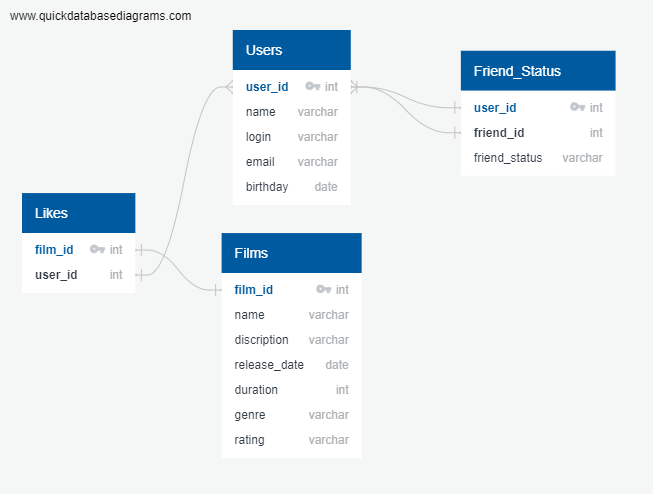
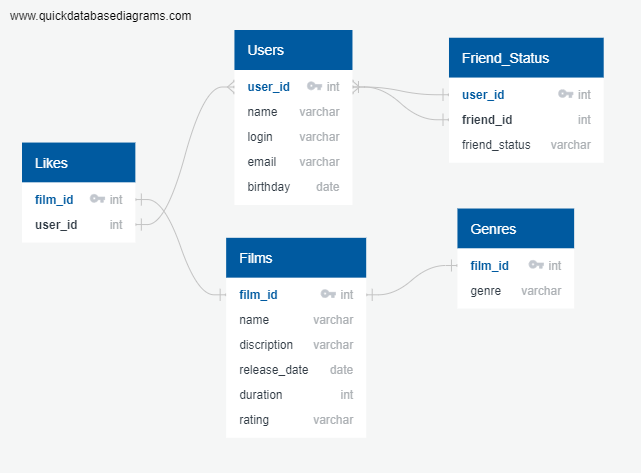
add multigenre, fix db-schema

diff --git a/src/test/java/ru/yandex/practicum/filmorate/validationTests/FilmValidationTest.java b/src/test/java/ru/yandex/practicum/filmorate/validationTests/FilmValidationTest.java
@@ -7,10 +7,13 @@ import ru.yandex.practicum.filmorate.model.Film;
 
 import javax.validation.*;
 import java.time.LocalDate;
+import java.util.List;
 import java.util.Set;
 
 import static org.junit.jupiter.api.Assertions.assertEquals;
 import static org.junit.jupiter.api.Assertions.assertThrows;
+import static ru.yandex.practicum.filmorate.model.utils.Genre.COMEDY;
+import static ru.yandex.practicum.filmorate.model.utils.Rating.PG13;
 
 public class FilmValidationTest {
 
@@ -24,6 +27,8 @@ public class FilmValidationTest {
                 .description("Description")
                 .releaseDate(LocalDate.of(1985,12,1))
                 .duration(90)
+                .rating(PG13.getRating())
+                .genres(List.of(COMEDY.getGenre()))
                 .build();
         Throwable thrown = assertThrows(ConstraintViolationException.class, () -> validate(film));
         String errorMessage = thrown.getMessage().split(":")[1].trim();
@@ -90,8 +95,10 @@ public class FilmValidationTest {
     }
 
     public void validate(Film film) {
-        ValidatorFactory factory = Validation.buildDefaultValidatorFactory();
-        Validator validator = factory.getValidator();
+        Validator validator;
+        try (ValidatorFactory factory = Validation.buildDefaultValidatorFactory()) {
+            validator = factory.getValidator();
+        }
         Set<ConstraintViolation<Film>> violations = validator.validate(film);
         if (!violations.isEmpty()) {
             throw new ConstraintViolationException(violations);

diff --git a/src/test/java/ru/yandex/practicum/filmorate/ServiceTests/FilmServiceTest.java b/src/test/java/ru/yandex/practicum/filmorate/ServiceTests/FilmServiceTest.java
@@ -8,13 +8,12 @@ import ru.yandex.practicum.filmorate.service.film.FilmService;
 import ru.yandex.practicum.filmorate.storage.film.InMemoryFilmStorage;
 
 import java.time.LocalDate;
-import java.util.Comparator;
-import java.util.List;
-import java.util.Random;
+import java.util.*;
 import java.util.stream.Collectors;
 
 import static org.junit.jupiter.api.Assertions.*;
 import static ru.yandex.practicum.filmorate.model.utils.Genre.COMEDY;
+import static ru.yandex.practicum.filmorate.model.utils.Genre.DRAMA;
 import static ru.yandex.practicum.filmorate.model.utils.Rating.PG13;
 
 public class FilmServiceTest {
@@ -55,7 +54,7 @@ public class FilmServiceTest {
                 .description("Updated film")
                 .duration(90)
                 .releaseDate(LocalDate.of(1985, 12, 1))
-                .genre(COMEDY.getGenre())
+                .genres(List.of(COMEDY.getGenre(), DRAMA.getGenre()))
                 .rating(PG13.getRating())
                 .build();
 
@@ -187,7 +186,7 @@ public class FilmServiceTest {
                 .description("Film for test")
                 .duration(90)
                 .releaseDate(LocalDate.of(1985, 12, 1))
-                .genre(COMEDY.getGenre())
+                .genres(List.of(COMEDY.getGenre()))
                 .rating(PG13.getRating())
                 .build();
     }

diff --git a/src/main/java/ru/yandex/practicum/filmorate/validators/RightRatingValidator.java b/src/main/java/ru/yandex/practicum/filmorate/validators/RightRatingValidator.java
@@ -1,12 +1,13 @@
 package ru.yandex.practicum.filmorate.validators;
 
 import ru.yandex.practicum.filmorate.annotations.RightGenre;
+import ru.yandex.practicum.filmorate.annotations.RightRating;
 import ru.yandex.practicum.filmorate.model.utils.Rating;
 
 import javax.validation.ConstraintValidator;
 import javax.validation.ConstraintValidatorContext;
 
-public class RightRatingValidator implements ConstraintValidator<RightGenre, String> {
+public class RightRatingValidator implements ConstraintValidator<RightRating, String> {
 
     @Override
     public boolean isValid(String s, ConstraintValidatorContext constraintValidatorContext) {

diff --git a/src/main/java/ru/yandex/practicum/filmorate/annotations/RightGenre.java b/src/main/java/ru/yandex/practicum/filmorate/annotations/RightGenre.java
@@ -5,13 +5,14 @@ import ru.yandex.practicum.filmorate.validators.RightGenreValidator;
 import javax.validation.Constraint;
 import javax.validation.Payload;
 import java.lang.annotation.Documented;
+import java.lang.annotation.ElementType;
 import java.lang.annotation.Retention;
 import java.lang.annotation.Target;
 
 import static java.lang.annotation.ElementType.FIELD;
 import static java.lang.annotation.RetentionPolicy.RUNTIME;
 
-@Target({FIELD})
+@Target({ElementType.TYPE_USE, FIELD})
 @Retention(RUNTIME)
 @Constraint(validatedBy = RightGenreValidator.class)
 @Documented

diff --git a/src/main/java/ru/yandex/practicum/filmorate/model/Film.java b/src/main/java/ru/yandex/practicum/filmorate/model/Film.java
@@ -11,6 +11,7 @@ import javax.validation.constraints.PositiveOrZero;
 import javax.validation.constraints.Size;
 import java.time.LocalDate;
 import java.util.HashSet;
+import java.util.List;
 import java.util.Set;
 
 @Data
@@ -39,11 +40,8 @@ public class Film {
     @Positive(message = "Duration should be positive natural digit.")
     private int duration;
 
-    @NonNull
-    @RightGenre
-    private String genre;
+    private List<@RightGenre String> genres;
 
-    @NonNull
     @RightRating
     private String rating;
 

diff --git a/src/main/java/ru/yandex/practicum/filmorate/storage/film/InMemoryFilmStorage.java b/src/main/java/ru/yandex/practicum/filmorate/storage/film/InMemoryFilmStorage.java
@@ -25,7 +25,7 @@ public class InMemoryFilmStorage implements FilmStorage {
                 .description(film.getDescription())
                 .releaseDate(film.getReleaseDate())
                 .duration(film.getDuration())
-                .genre(film.getGenre())
+                .genres(film.getGenres())
                 .rating(film.getRating())
                 .id(++filmId)
                 .build();

diff --git a/src/main/java/ru/yandex/practicum/filmorate/validators/FriendStatusValidator.java b/src/main/java/ru/yandex/practicum/filmorate/validators/FriendStatusValidator.java
@@ -13,7 +13,7 @@ public class FriendStatusValidator implements ConstraintValidator<CorrectFriendS
                            ConstraintValidatorContext constraintValidatorContext) {
         if (status == null || status.equals(""))
             return true;
-        return !FriendStatus.isFriendStatus(status);
+        return FriendStatus.isFriendStatus(status);
     }
 }
 

diff --git a/src/main/java/ru/yandex/practicum/filmorate/validators/RightGenreValidator.java b/src/main/java/ru/yandex/practicum/filmorate/validators/RightGenreValidator.java
@@ -10,7 +10,7 @@ public class RightGenreValidator implements ConstraintValidator<RightGenre, Stri
 
     @Override
     public boolean isValid(String s, ConstraintValidatorContext constraintValidatorContext) {
-        if(s == null)
+        if(s == null || s.equals(""))
             return true;
         return Genre.isGenre(s);
     }
